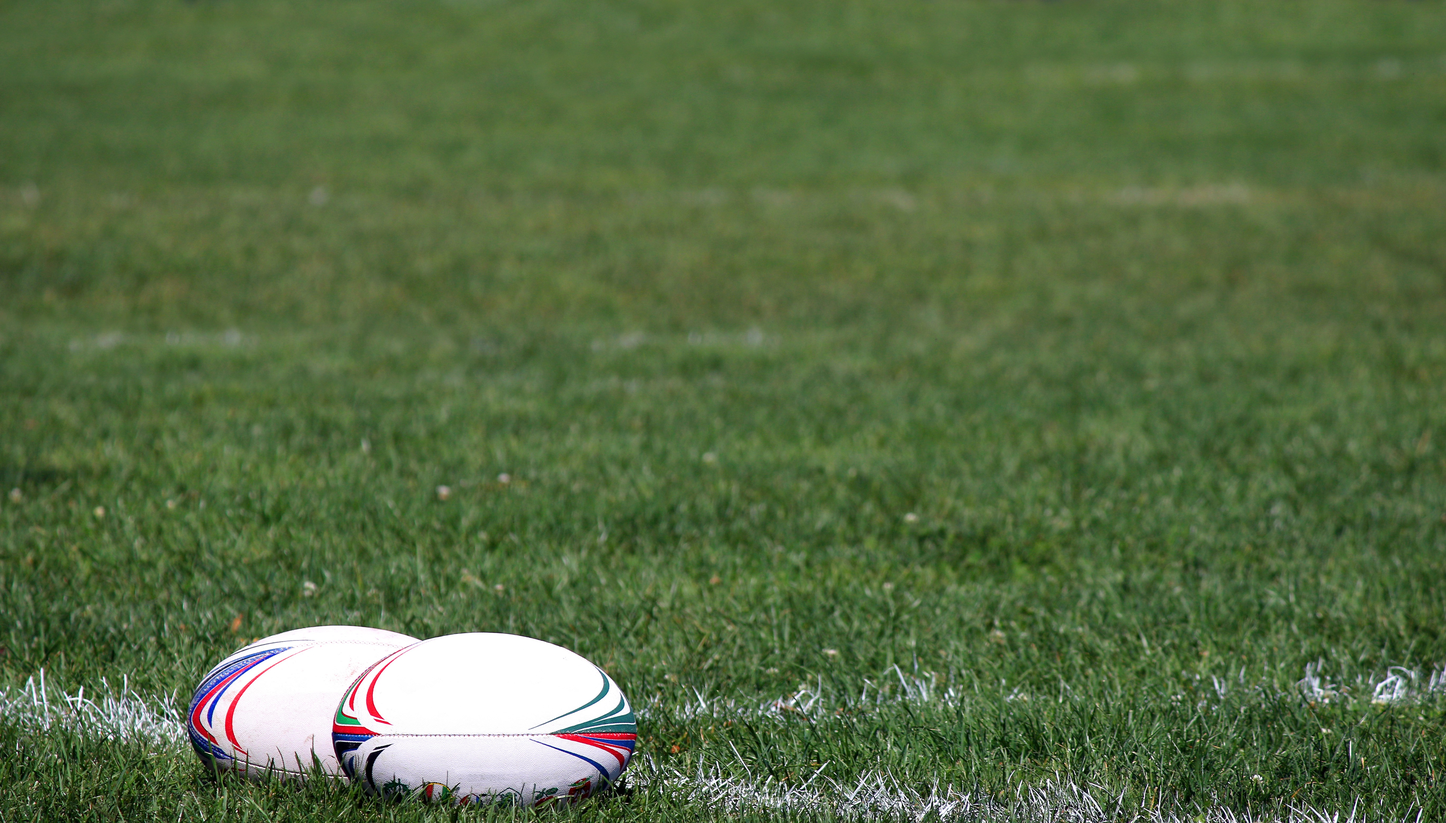
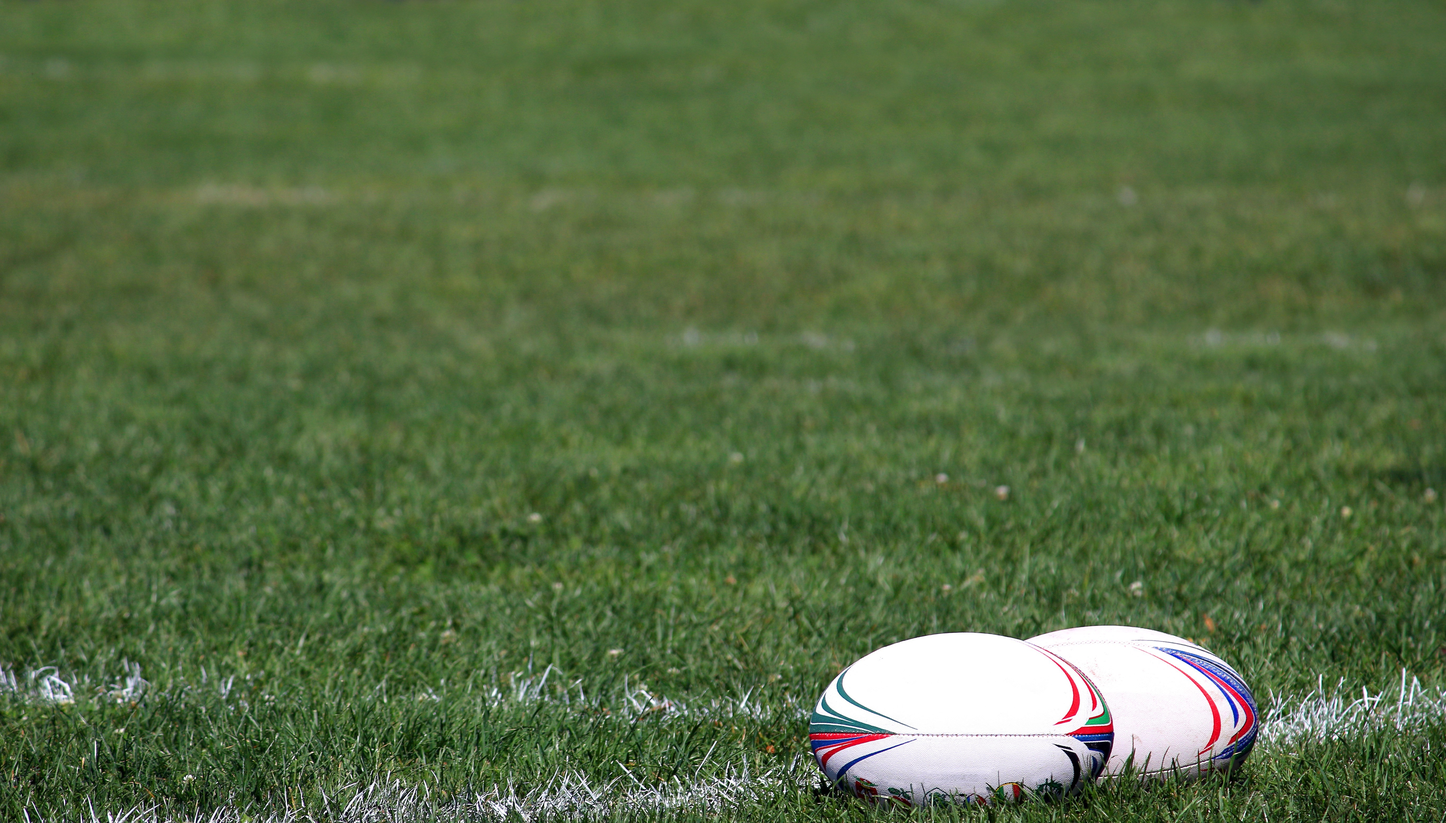
Updated styles and images Added stafford links

diff --git a/index.html b/index.html
@@ -55,7 +55,7 @@
   <div class="jumbotron-fluid hero">
     <nav class="navbar navbar-expand-sm navbar-light ">
       <div class="container">
-        <h2><i class="fas fa-sitemap"></i> Touch Rugby Network</h2>
+        <h2><i class="fas fa-sitemap"></i> Touch Rugby Club Network</h2>
         <button class="navbar-toggler" type="button" data-bs-toggle="collapse" data-bs-target="#navbarSupportedContent" aria-controls="navbarSupportedContent" aria-expanded="false" aria-label="Toggle navigation">
           <span class="navbar-toggler-icon"></span>
         </button>
@@ -93,11 +93,11 @@
     </nav>
   
     <!-- you can also add something like style="min-height: 70vh;" to the div above -->
-    <div class="container-fluid team-primary" >  
+    <div class="container-fluid team-primary vh-100" >  
       <div class="container">
         <div class="row">
-          <div class="col-md-6">
-            <h1 class="">Touch Rugby Network</h1>
+          <div class="col-md-4">
+            <h1 class="">Touch Rugby Club Network</h1>
           </div>
         </div>
         <div class="row">
@@ -252,7 +252,7 @@
 
   <div class="jumbotron-fluid prices" >
     <a id="prices"/>
-    <div class="container-fluid team-tertiary">
+    <div class="container-fluid team-tertiary vh-100">
       <div class="container">
         <div class="row justify-content-md-center text-center">
           <div class="col-md-12">
@@ -263,8 +263,9 @@
         <div class="row justify-content-md-center text-center">       
           <div class="col-md-4">
             <div class="card border-secondary mb-3" >
+              <div class="card-header ">
+                <h3 class="card-title">Do it yourself</h3></div>
               <div class="card-body text-secondary">
-                <h3 class="card-title">Do it yourself</h3>
                 <h4 class="card-title">Free setup / free hosting</h4>
                 <p class="card-text">
                   Follow our online instructions on how to use our template, adjust the content and colours, and how to host your website.  
@@ -277,14 +278,14 @@
           </div>     
           <div class="col-md-4">
             <div class="card border-secondary mb-3" >
+              <div class="card-header "><h3>Supported setup</h3></div>
               <div class="card-body text-secondary">
-                <h3 class="card-title"><strong>Supported setup</strong></h3>
                 <h4 class="card-title">£40 setup / free hosting</h4>
                 <p class="card-text">
-                  We can get you started for a small <strong>one-off</strong> fee.
+                  We will get you up and running for a small <strong>one-off</strong> fee.
                 </p>
                 <p class="card-text">
-                  We will need your team logo and the details of the content that you want to use. 
+                  All we need is your team logo and the details of the content that you want to use. 
                 </p>
                 <p class="card-text">We'll have your new website up and running within a few days.
                 </p>
@@ -293,8 +294,9 @@
           </div>    
           <div class="col-md-4">
             <div class="card border-secondary mb-3" >
+              <div class="card-header ">
+                <h3 class="card-title">Content changes *</h3></div>
               <div class="card-body text-secondary">
-                <h3 class="card-title">Content changes *</h3>
                 <h4 class="card-title">from £5</h4>
                 <p class="card-text">
                   We can make content changes for you for a small fee
@@ -344,20 +346,22 @@
               <div class="card-body text-secondary">
                 <h3 class="card-title">Staffordshire Stormers</h3>
                 <p class="card-text">
-                  <img src="images/teams/staffordshire-stormers.png" class="img-fluid">
+                  <img src="images/teams/staffordshire-stormers.png" class="team-logo" >
                 </p>
               </div></a>
             </div> 
           </div>          
-          <!-- <div class="col-md-4 ">
+          <div class="col-md-4 ">
             <div class="card border-secondary mb-3" >
+              <a href="https://stafford.touchrugby.club/">
               <div class="card-body text-secondary">
                 <h3 class="card-title">Stafford Bull Terriers</h3>
                 <p class="card-text">
+                  <img src="images/teams/stafford-bullterriers.png" class="team-logo">
                 </p>
-              </div>
+              </div></a>
             </div> 
-          </div>           -->
+          </div>          
           <!-- <div class="col-md-4 ">
             <div class="card border-secondary mb-3" >
               <div class="card-body text-secondary">

diff --git a/css/site.css b/css/site.css
@@ -141,11 +141,15 @@
         padding:1em;
       }
 
+      .team-secondary a,
       .team-tertiary a {
         color: var(--primary-color);
+        font-weight: 900;
       }
+      .team-secondary a:hover,
       .team-tertiary a:hover {
         color: var(--primary-color);
+        font-weight: 900;
       }
 
       
@@ -192,7 +196,7 @@
     }
     
     .hero {
-        background: url("../images/AdobeStock_91648747.jpeg") no-repeat center ;
+        background: url("../images/AdobeStock_177731417.jpeg") no-repeat bottom ;
         background-size: cover;
     }
 
@@ -216,6 +220,11 @@
         background-size: cover;
     }
 
+    .teams {
+        background: url("../images/AdobeStock_143375235.jpeg") no-repeat center ;
+        background-size: cover;
+    }
+
     .jumbotron-fluid > div.team-primary{
       background-color:var(--primary-color-transparent)
     }
@@ -224,4 +233,8 @@
     }
     .jumbotron-fluid > div.team-tertiary {
       background-color:var(--tertiary-color-transparent)
+    }
+
+    .team-logo {
+      max-height: 100px;
     }
